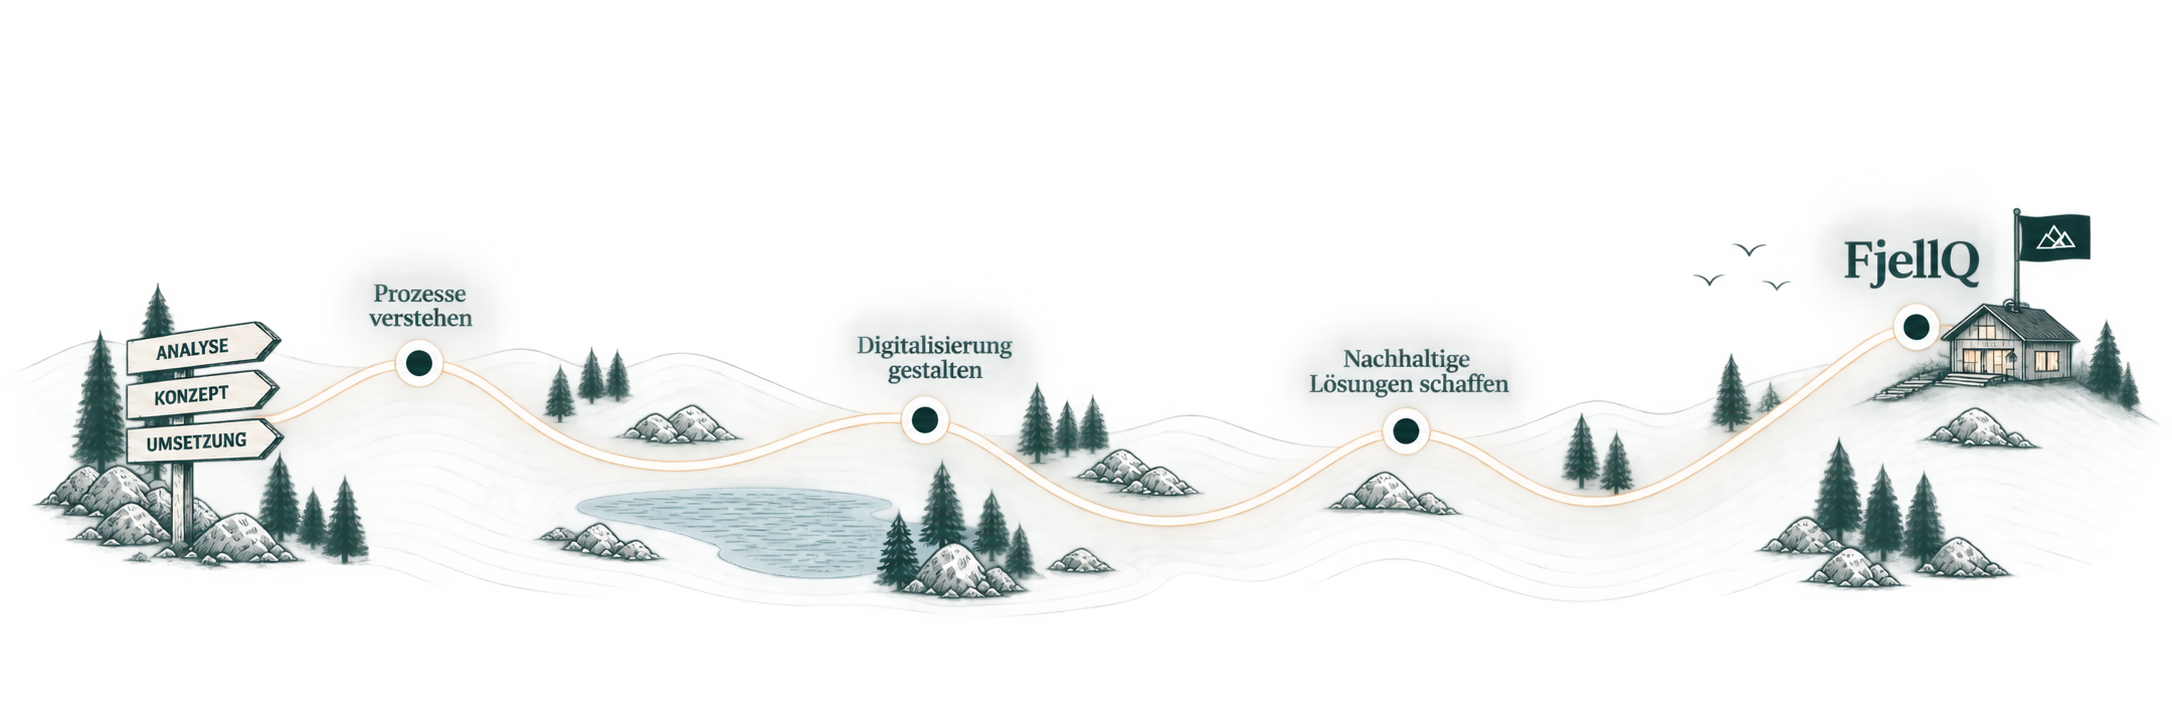
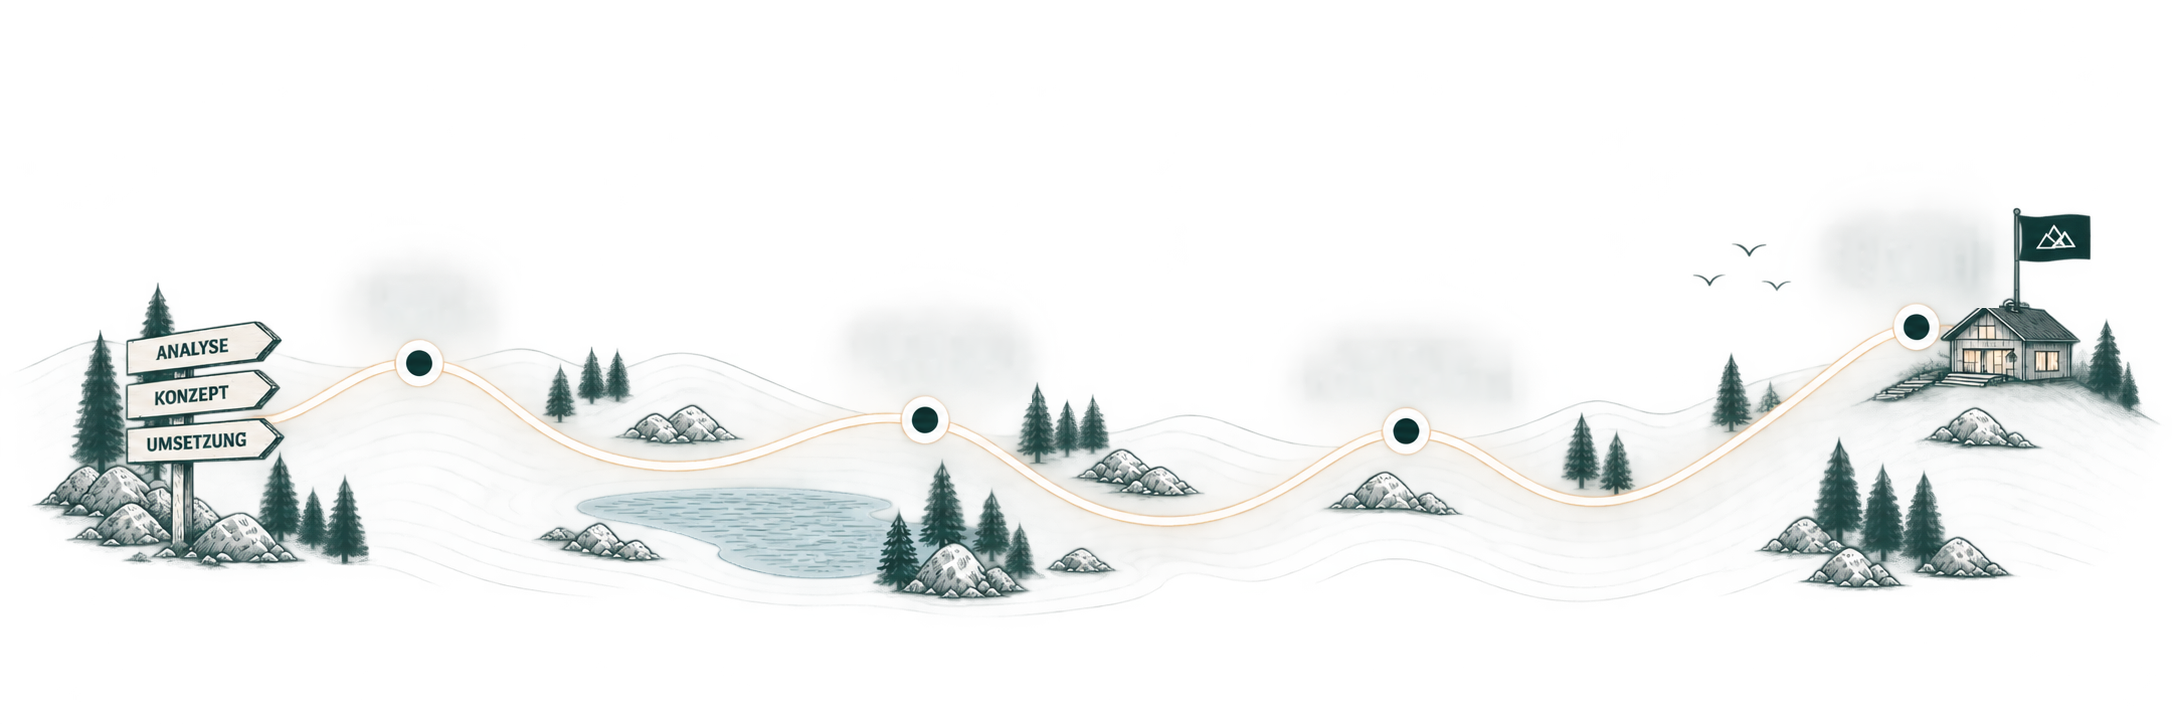
Weg-Illustration: eingebrannten Text entfernen, durch echten HTML-Text ersetzen
Text der vier Sprechblasen ("Prozesse verstehen", "Digitalisierung gestalten",
"Nachhaltige Lösungen schaffen", "FjellQ") wurde aus dem Bild retuschiert
(spaltenweise Interpolation + leichte Glättung, kein Textrest sichtbar) und
durch echten, positioniertes HTML-Text ersetzt. Macht den Text barrierefrei,
übersetzbar und editierbar, ohne die Optik der Illustration zu verändern.
Signpost-Beschriftungen (Analyse/Konzept/Umsetzung) bleiben unverändert im Bild.

diff --git a/index.html b/index.html
@@ -65,10 +65,16 @@
   <section class="claim-section" id="claim">
     <p class="claim">Prozesse verstehen, Digitalisierung gestalten.</p>
     <p class="claim-description">FjellQ berät und begleitet Organisationen und Firmen bei der Digitalisierung und Optimierung ihrer Prozesse – von der Analyse bis zur Umsetzung. Im Zentrum steht ein nachhaltiger Ansatz, der Komplexität reduziert und langfristig tragfähige Lösungen schafft.</p>
-    <picture>
-      <source srcset="assets/service-path.webp" type="image/webp" />
-      <img class="claim-illustration" src="assets/service-path.png" alt="Illustrierter Weg von der Analyse über Konzept und Umsetzung zu nachhaltigen Lösungen, bis hin zu FjellQ" width="2172" height="724" loading="lazy" />
-    </picture>
+    <div class="claim-illustration-wrap">
+      <picture>
+        <source srcset="assets/service-path.webp" type="image/webp" />
+        <img class="claim-illustration" src="assets/service-path.png" alt="Illustrierter Bergpfad mit Stationen von der Analyse bis zu nachhaltigen Lösungen, mündend bei FjellQ" width="2172" height="724" loading="lazy" />
+      </picture>
+      <p class="illustration-label" style="left:19.4%; top:42.1%">Prozesse<br />verstehen</p>
+      <p class="illustration-label" style="left:43.1%; top:49.6%">Digitalisierung<br />gestalten</p>
+      <p class="illustration-label" style="left:64.9%; top:51.5%">Nachhaltige<br />Lösungen schaffen</p>
+      <p class="illustration-label illustration-label--brand" style="left:88%; top:35.7%">FjellQ</p>
+    </div>
     <button class="scroll-hint" type="button" data-target="#process" aria-label="Zum nächsten Abschnitt scrollen">
       <svg viewBox="0 0 24 24" aria-hidden="true">
         <path d="M6 9l6 6 6-6" />

diff --git a/assets/styles.css b/assets/styles.css
@@ -253,11 +253,34 @@ a { color: inherit; }
   color: var(--ink-muted);
 }
 
-.claim-illustration {
+.claim-illustration-wrap {
+  position: relative;
   width: 100%;
   max-width: 44rem;
-  height: auto;
   margin-top: 0.8rem;
+}
+
+.claim-illustration {
+  display: block;
+  width: 100%;
+  height: auto;
+}
+
+.illustration-label {
+  position: absolute;
+  transform: translate(-50%, -50%);
+  margin: 0;
+  text-align: center;
+  white-space: nowrap;
+  font-family: Georgia, 'Times New Roman', serif;
+  font-weight: 700;
+  line-height: 1.25;
+  color: #06302d;
+  font-size: clamp(0.5rem, 1.55vw, 0.78rem);
+}
+
+.illustration-label--brand {
+  font-size: clamp(0.85rem, 2.6vw, 1.35rem);
 }
 
 .process {
